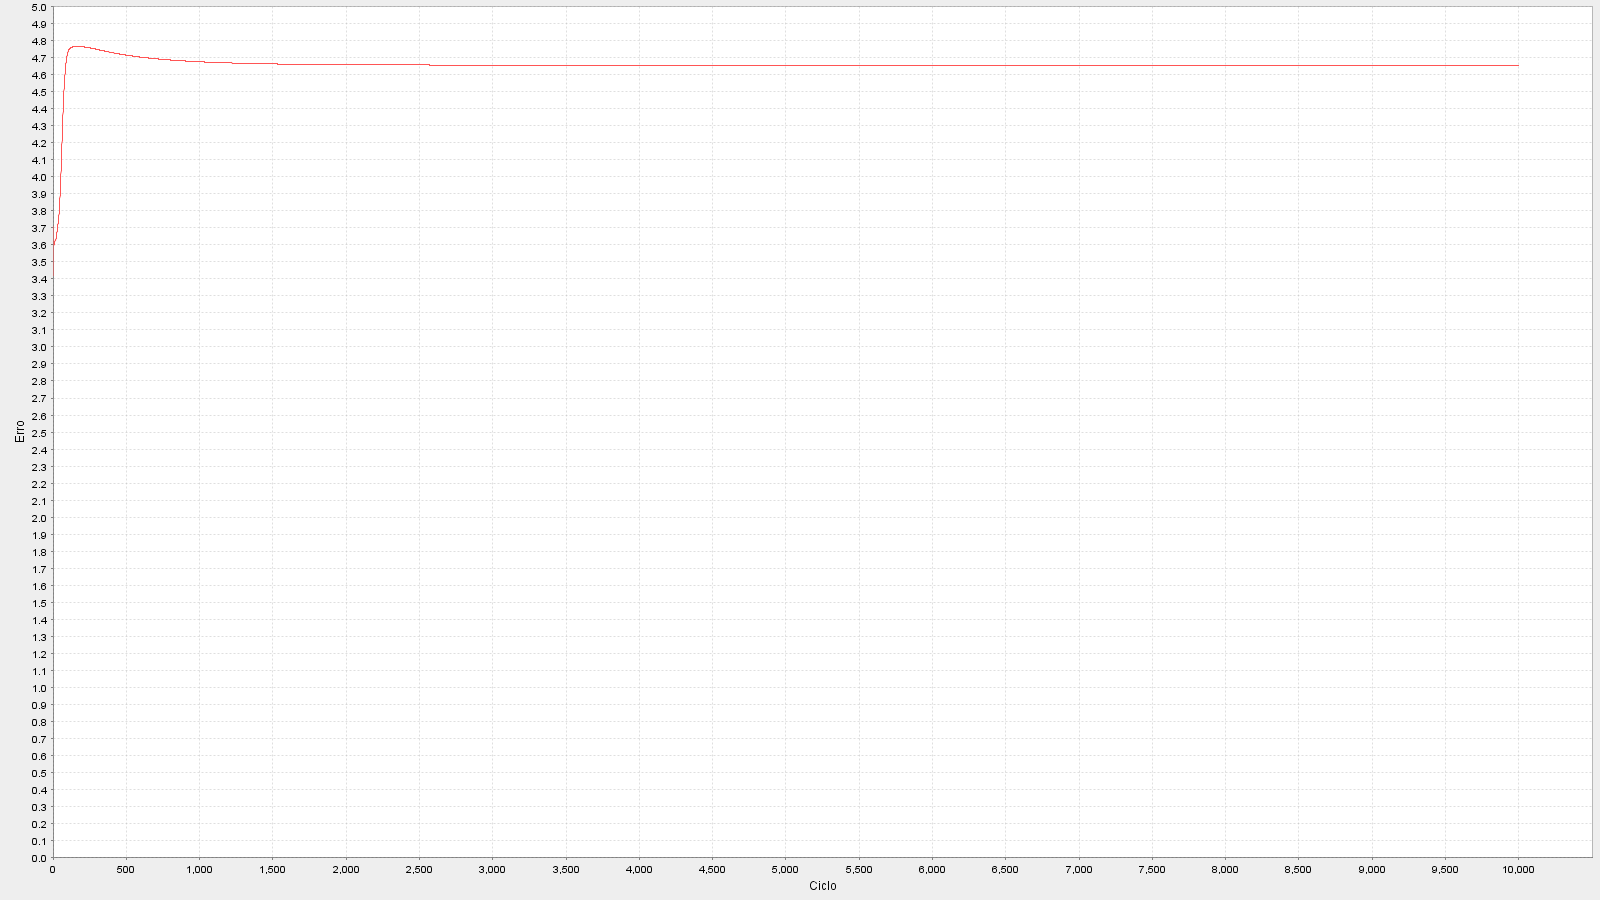
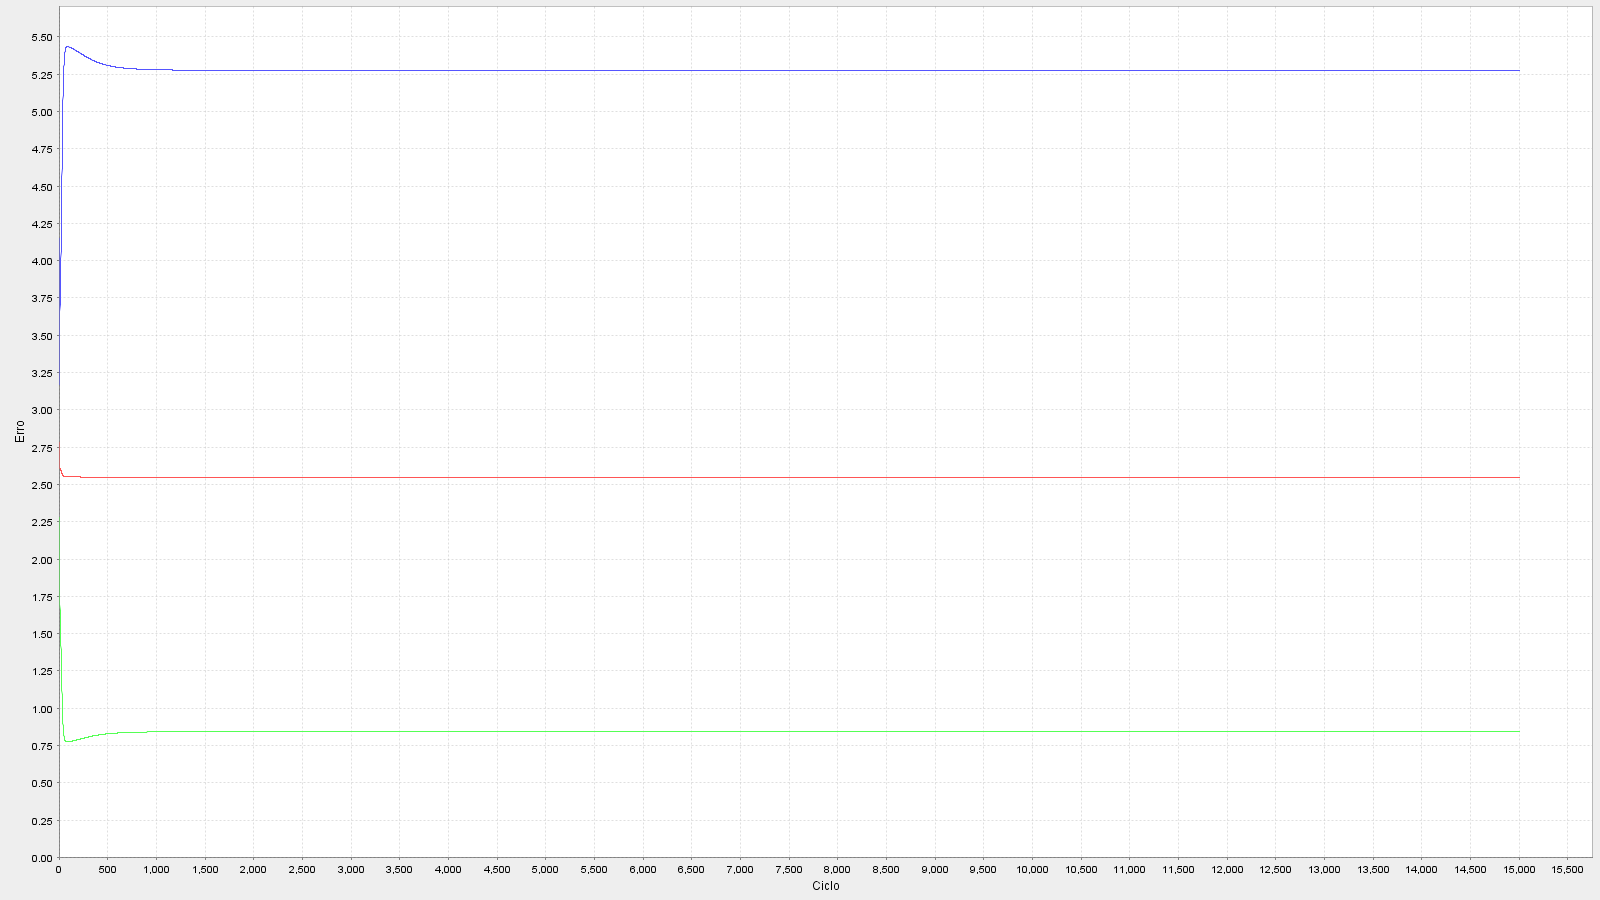
inserção dos tres graficos
Inclusão dos graficos de erro minimo e erro medio no grafico mostrado na
GUI. Falta colocar as caixas suspensas que mostram os valores ao final
do treinamento...

diff --git a/src/main/java/resolvers/FeedforwardAlgorithm.java b/src/main/java/resolvers/FeedforwardAlgorithm.java
@@ -5,6 +5,9 @@ import calculators.FeedforwardCalculator;
 public class FeedforwardAlgorithm {
 
 	private double[][] lastLayerOutMatrix;
+	double[][] winFailureMatrix;
+	double[][] drawFailureMatrix;
+	double[][] loseFailureMatrix;
 	private double winSuccessRatio;
 	private double drawSuccessRatio;
 	private double loseSuccessRatio;
@@ -61,6 +64,9 @@ public class FeedforwardAlgorithm {
 //		int[] controlOfSuccessAnyone = {0,0,0};
 //		int numberOfSuccessAnyone = 0;
 //		int numberOfSuccessAll = 0;
+		winFailureMatrix = new double[target.length][target[0].length];
+		drawFailureMatrix = new double[target.length][target[0].length];
+		loseFailureMatrix = new double[target.length][target[0].length];
 		
 		for (int l = 0; l < initializedData.getInputMatrix()[0].length; l++) {
 			thirdErrorCalculation(target, l);
@@ -79,7 +85,7 @@ public class FeedforwardAlgorithm {
 				/ (double) initializedData.getInputMatrix()[0].length);
 	}
 
-	private void thirdErrorCalculation(double[][] target, int l) {
+		private void thirdErrorCalculation(double[][] target, int l) {
 		boolean isWin = false;
 		boolean isDraw = false;
 		boolean isLose = false;
@@ -123,26 +129,48 @@ public class FeedforwardAlgorithm {
 		numberOfLosePrediction++;
 		return isLose = true;
 	}
-	
-	private void checkLoseResult(double[][] target, int l, boolean isLose) {
-		if (target[2][l] == 1) {
-			numberOfLoseResults++;
-			if (isLose)	numberOfSuccessLosePredictions++;
-		}
-	}
-
-	private void checkDrawResult(double[][] target, int l, boolean isDraw) {
-		if (target[1][l] == 1) {
-			numberOfDrawResults++;
-			if (isDraw)	numberOfSuccessDrawPredictions++;
-		}
-	}
 
 	private void checkWinResult(double[][] target, int l, boolean isWin) {
 		if (target[0][l] == 1){
 			numberOfWinResults++;
 			if (isWin)	numberOfSuccessWinPredictions++;
+			if (!isWin) recordWinFailures(target, l);
+			
 		}
+	}
+	
+	private void checkDrawResult(double[][] target, int l, boolean isDraw) {
+		if (target[1][l] == 1) {
+			numberOfDrawResults++;
+			if (isDraw)	numberOfSuccessDrawPredictions++;
+			if (!isDraw) recordDrawFailures(target, l);
+		}
+	}
+
+	private void checkLoseResult(double[][] target, int l, boolean isLose) {
+		if (target[2][l] == 1) {
+			numberOfLoseResults++;
+			if (isLose)	numberOfSuccessLosePredictions++;
+			if (!isLose) recordLoseFailures(target, l);
+		}
+	}
+	
+	private void recordWinFailures(double[][] target, int l) {
+		winFailureMatrix[0][l] = getLastLayerOutMatrix()[0][l];
+		winFailureMatrix[1][l] = getLastLayerOutMatrix()[1][l];
+		winFailureMatrix[2][l] = getLastLayerOutMatrix()[2][l];
+	}
+	
+	private void recordDrawFailures(double[][] target, int l) {
+		drawFailureMatrix[0][l] = getLastLayerOutMatrix()[0][l];
+		drawFailureMatrix[1][l] = getLastLayerOutMatrix()[1][l];
+		drawFailureMatrix[2][l] = getLastLayerOutMatrix()[2][l];
+	}
+	
+	private void recordLoseFailures(double[][] target, int l) {
+		loseFailureMatrix[0][l] = getLastLayerOutMatrix()[0][l];
+		loseFailureMatrix[1][l] = getLastLayerOutMatrix()[1][l];
+		loseFailureMatrix[2][l] = getLastLayerOutMatrix()[2][l];
 	}
 
 //	OLD ERROR CALCULATION
@@ -176,7 +204,6 @@ public class FeedforwardAlgorithm {
 //	controlOfSuccessAnyone[0] = 0;
 //	controlOfSuccessAnyone[1] = 0;
 //	controlOfSuccessAnyone[2] = 0;
-
 
 	public FeedforwardAlgorithm(BackPropagationAlgorithm bias) {
 

diff --git a/src/main/java/kassio/soccer_wizard/SoccerWizard.java b/src/main/java/kassio/soccer_wizard/SoccerWizard.java
@@ -25,8 +25,6 @@ public class SoccerWizard {
  
 		new SoccerGUI().setVisible(true);
 		
-//		new FeedForwardAlgorithm(initializedData.getInputMatrix(), bias);
-//		new FeedForwardAlgorithm(bias);
 	}
 	
 	public static Initializer initializeDataXorForTraining() {
@@ -47,7 +45,7 @@ public class SoccerWizard {
 	}
 	
 	public static BackPropagationAlgorithm backPropagationAlgorithm() {
-		return bias = new BackPropagationAlgorithm(initializedData, trainingParameters.getLearningRate(), trainingParameters.getMinError(), trainingParameters.getMaxRotinas());
+		return bias = new BackPropagationAlgorithm(initializedData, trainingParameters.getLearningRate(), trainingParameters.getThresholdError(), trainingParameters.getMaxRotinas());
 	}
 	
 	public static FeedforwardAlgorithm xorFeedforwardAlgorithm() {
